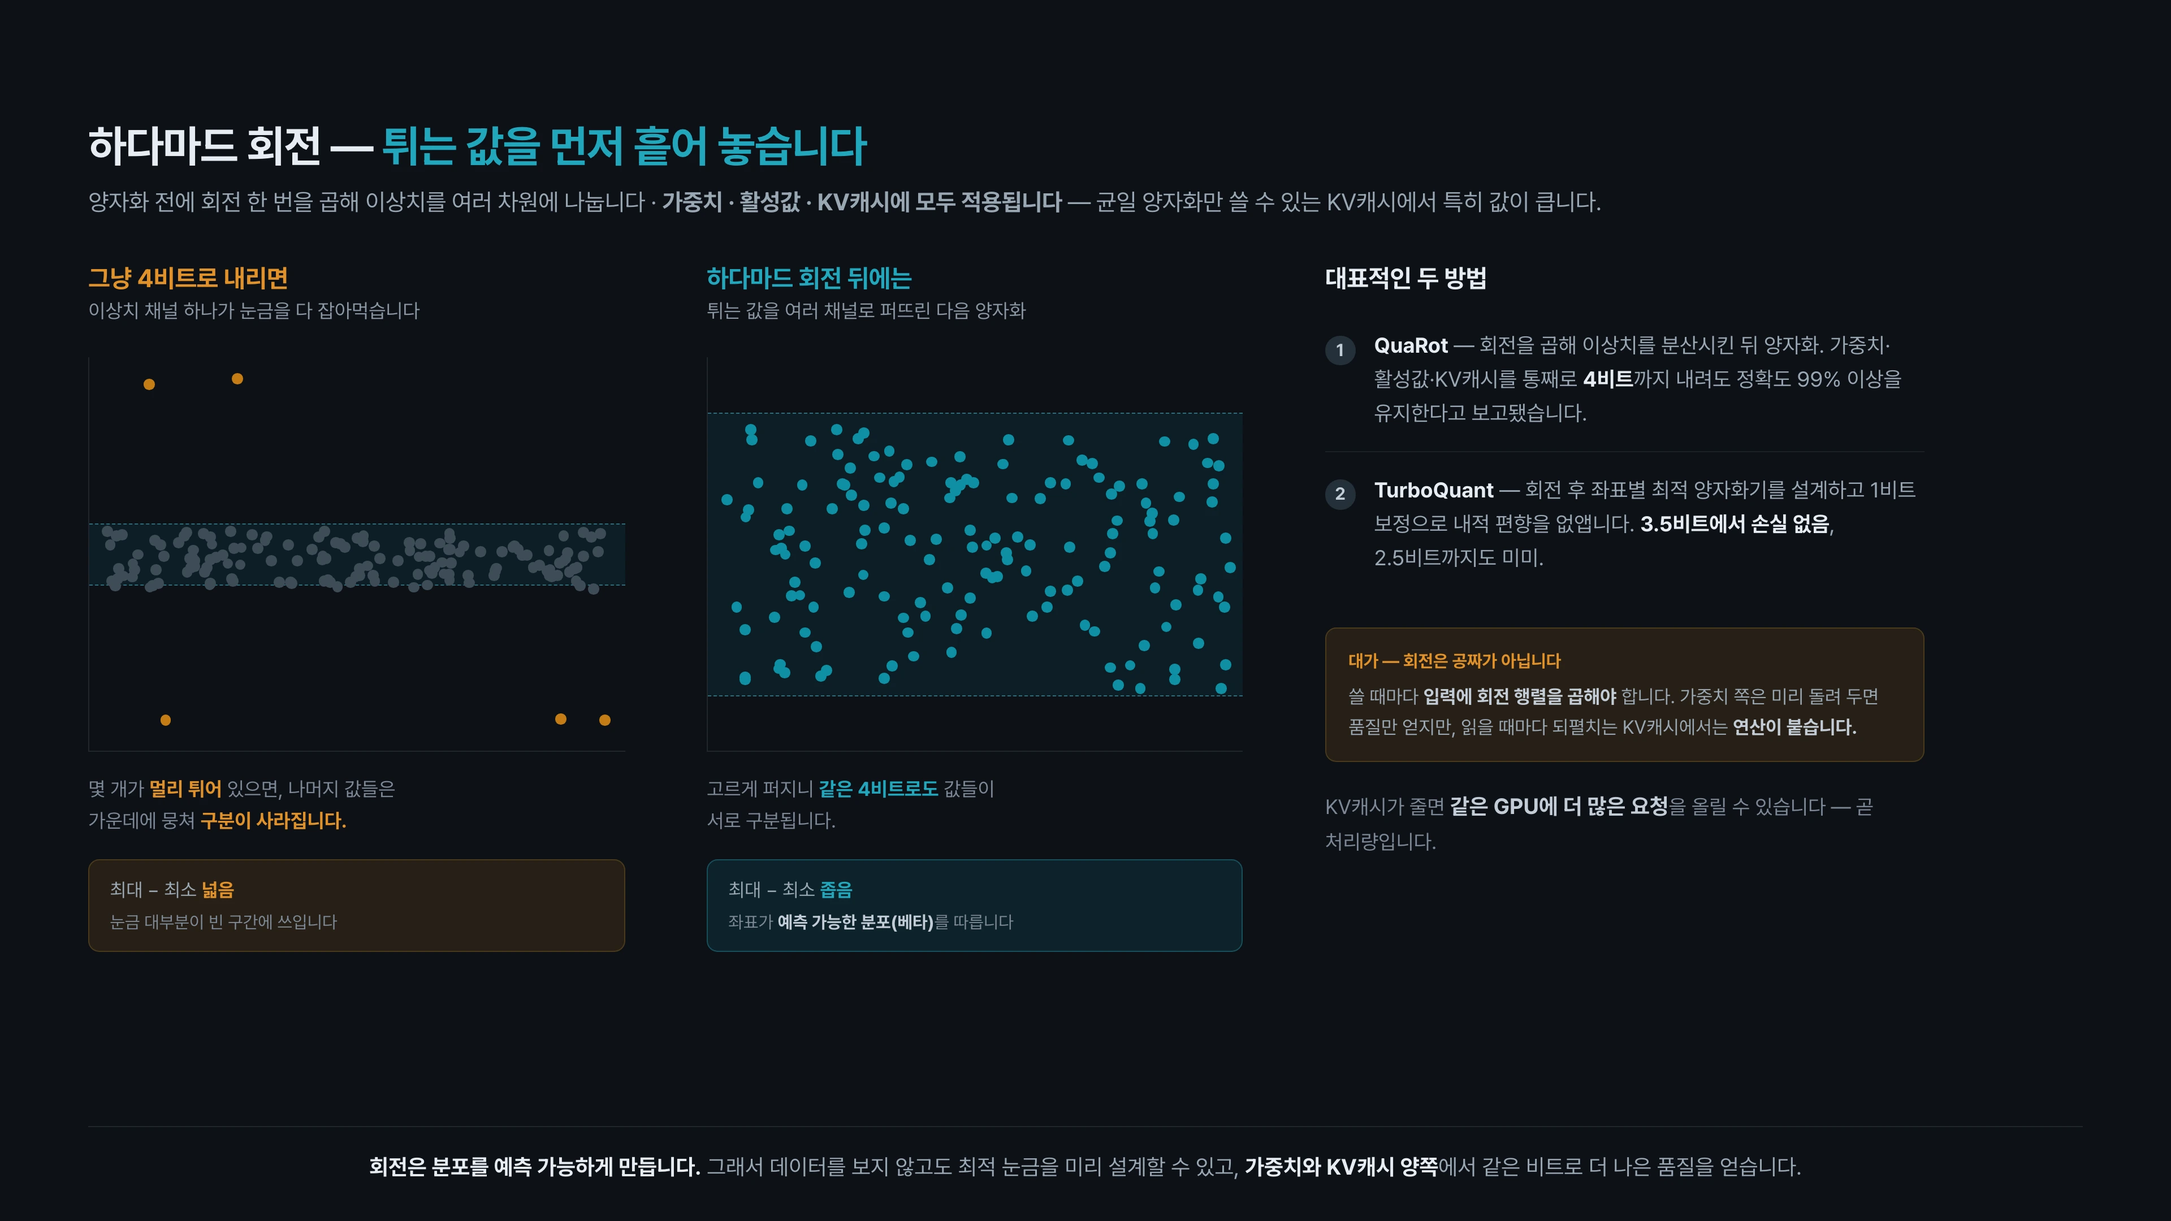
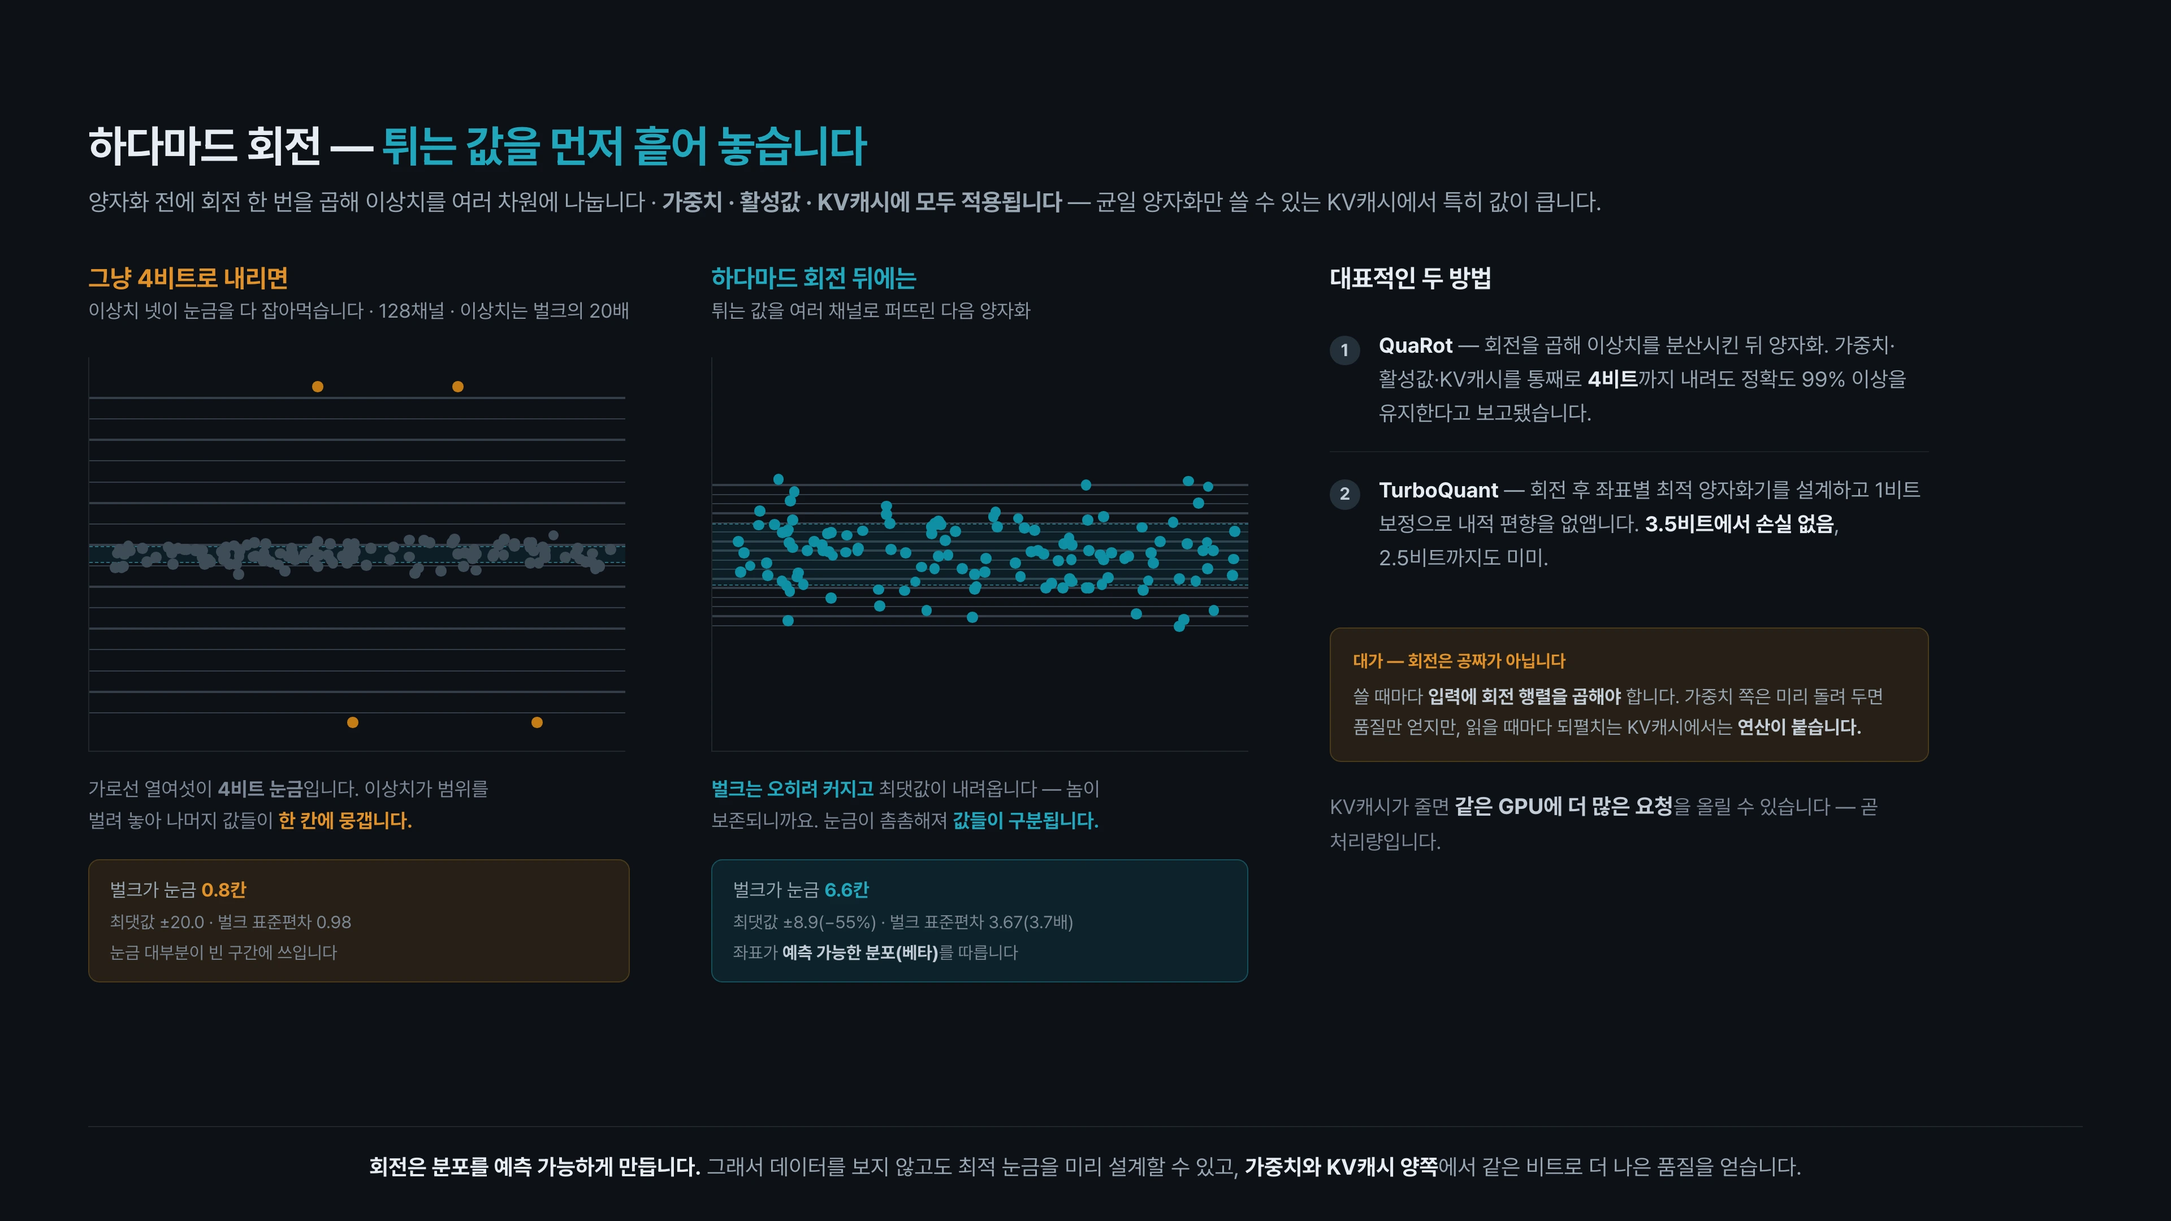
82번 하다마드 회전 — 손으로 그린 퍼짐을 실제 회전 계산으로 교체
호진님 지적: "회전 뒤 이상치는 줄어드나 기존 값들의 크기가 커지는 것처럼
묘사되고 있는데 의도와 맞나?"

**방향은 맞았습니다.** 직교 변환이라 놈이 보존되므로 봉우리에서 뺀 에너지는
나머지 좌표로 갈 수밖에 없고 벌크는 반드시 커집니다([^quarot-hadamard]).
문제는 두 패널의 퍼짐이 손으로 정한 상수(spread 0.16 / 0.72)였다는 것입니다 —
폭 축소가 29%로만 나오는데 벌크는 4.5배로 부풀어, 화면에서는 "폭이 좁아졌다"가
아니라 "전부 커졌다"로 읽혔습니다. CLAUDE.md "분포 곡선은 손으로 그리지 말고
계산해서 찍습니다"에 걸리는 사례(세션 38의 rotation_geometry와 같은 종류).

이제 진짜로 회전시킵니다
  - 128채널 벡터(넷은 ±20 이상치, 나머지 N(0,1))에 무작위 부호 뒤집기 →
    고속 월시–하다마드 변환 → ÷√128. 놈 보존은 코드가 보장합니다(41.466 동일).
  - 실측: 최댓값 ±20.0 → ±8.9(−55%) · 벌크 표준편차 0.98 → 3.67(3.7배).
    둘 다 맞습니다 — 예전 그림은 앞쪽만 축소하고 뒤쪽만 부풀려 뒤집혀 보였습니다.
  - 화면의 숫자도 전부 그 배열에서 계산해 넣습니다. 손으로 적은 값이 없습니다.

그리고 결론을 그렸습니다 — 4비트 눈금 16칸을 가로선으로
  - 범위는 각 패널의 최댓값이 정합니다. 회전 전은 칸이 성겨 벌크가 0.8칸에
    뭉개지고, 회전 후는 촘촘해져 6.6칸에 걸칩니다.
  - 카드 문구를 "최대−최소 넓음/좁음" → "벌크가 눈금 0.8칸/6.6칸"으로.
  - 오른쪽 캡션이 대놓고 말합니다: "벌크는 오히려 커지고 최댓값이 내려옵니다
    — 놈이 보존되니까요." 발표자 노트에도 같은 대목을 넣었습니다.
  - 시나리오(128채널 · 이상치는 벌크의 20배)를 패널 설명에 명시했습니다.

Claude-Session: https://claude.ai/code/session_01R3iwnDddbcGMSqfBhUgfua

diff --git a/figures/hadamard.html b/figures/hadamard.html
@@ -8,8 +8,13 @@
   .plot { position:relative; width:340px; height:250px;
           border-left:1px solid var(--c-21262d); border-bottom:1px solid var(--c-21262d); }
   .dot { position:absolute; width:7px; height:7px; border-radius:50%; }
+  /* 띠 = 벌크의 ±1σ. 두 패널에서 **띠는 커지고 점의 전체 범위는 좁아집니다** —
+     그 두 방향이 동시에 일어나는 것이 이 그림의 요점입니다(놈 보존). */
   .band { position:absolute; left:0; right:0; background:var(--a-35);
           border-top:1px dashed var(--c-2f6b78); border-bottom:1px dashed var(--c-2f6b78); }
+  /* 4비트 눈금 16칸. 범위는 그 패널의 최댓값이 정합니다 — 이상치가 범위를 벌리면
+     칸 간격이 넓어지고, 그래서 벌크가 한 칸에 뭉갭니다. 이게 이 그림의 결론입니다. */
+  .gline { position:absolute; left:0; right:0; height:1px; background:var(--c-333d47); }
   .ylab { position:absolute; left:-46px; font-size:11px; color:var(--c-5d6773); }
   .plotcap { font-size:12.5px; color:var(--c-7d8896); margin-top:14px; line-height:1.6; }
   .plotcap b { font-weight:700; }
@@ -50,18 +55,20 @@
   <div class="panels" style="margin-top:30px; gap:52px">
     <div class="panel">
       <div class="ptitle" style="color:var(--c-e0912a)">그냥 4비트로 내리면</div>
-      <div class="pdesc">이상치 채널 하나가 눈금을 다 잡아먹습니다</div>
+      <div class="pdesc">이상치 넷이 눈금을 다 잡아먹습니다 &middot; 128채널 &middot; 이상치는 벌크의 20배</div>
       <div class="plot" id="before" style="margin-top:22px"></div>
-      <div class="plotcap">몇 개가 <b class="am">멀리 튀어</b> 있으면, 나머지 값들은<br>가운데에 뭉쳐 <b class="am">구분이 사라집니다.</b></div>
-      <div class="spread am">최대 &minus; 최소 <b>넓음</b><br><span>눈금 대부분이 빈 구간에 쓰입니다</span></div>
+      <div class="plotcap">가로선 열여섯이 <b>4비트 눈금</b>입니다. 이상치가 범위를<br>벌려 놓아 나머지 값들이 <b class="am">한 칸에 뭉갭니다.</b></div>
+      <div class="spread am">벌크가 눈금 <b id="cells-b">&nbsp;</b><br><span id="stat-b">&nbsp;</span>
+        <span>눈금 대부분이 빈 구간에 쓰입니다</span></div>
     </div>
 
     <div class="panel">
       <div class="ptitle" style="color:var(--c-22a7bd)">하다마드 회전 뒤에는</div>
       <div class="pdesc">튀는 값을 여러 채널로 퍼뜨린 다음 양자화</div>
       <div class="plot" id="after" style="margin-top:22px"></div>
-      <div class="plotcap">고르게 퍼지니 <b class="cy">같은 4비트로도</b> 값들이<br>서로 구분됩니다.</div>
-      <div class="spread cy">최대 &minus; 최소 <b>좁음</b><br><span>좌표가 <b style="color:var(--c-c3ccd6)">예측 가능한 분포(베타)</b>를 따릅니다</span></div>
+      <div class="plotcap"><b class="cy">벌크는 오히려 커지고</b> 최댓값이 내려옵니다 &mdash; 놈이<br>보존되니까요. 눈금이 촘촘해져 <b class="cy">값들이 구분됩니다.</b></div>
+      <div class="spread cy">벌크가 눈금 <b id="cells-a">&nbsp;</b><br><span id="stat-a">&nbsp;</span>
+        <span>좌표가 <b style="color:var(--c-c3ccd6)">예측 가능한 분포(베타)</b>를 따릅니다</span></div>
     </div>
 
     <div class="panel" style="width:380px">
@@ -87,35 +94,112 @@
   </div>
 
 <script>
-let seed = 5;
-function rnd(){ seed = (seed*1103515245+12345)%2147483648; return seed/2147483648; }
+/* ── 손으로 그리지 않고 진짜로 회전시킵니다 (2026-08-05 재작성) ──────────────
+   예전에는 두 패널의 퍼짐을 손으로 정한 상수(spread 0.16 / 0.72)로 그렸습니다.
+   그 결과 최대−최소는 234px → 166px(29% 감소)로만 좁아지는데 벌크는 4.5배로
+   부풀어, 화면에서 이기는 인상이 "폭이 좁아졌다"가 아니라 **"전부 커졌다"**
+   였습니다(호진님 지적, 2026-08-05).
 
-function draw(id, spread, outliers) {
+   **방향 자체는 맞았습니다.** 하다마드는 직교 변환이라 놈이 보존되므로, 봉우리에서
+   뺀 에너지는 나머지 좌표로 갈 수밖에 없고 **벌크는 반드시 커집니다.** 문제는
+   폭 축소가 실제(약 55%)의 절반 이하로 그려져 있었다는 것입니다.
+
+   지금은 계산합니다.
+     1. 회전 전 x: 128채널 중 넷이 이상치(±20), 나머지는 N(0,1)
+     2. 무작위 하다마드 = 부호 무작위 뒤집기 → FWHT → ÷√128 (QuaRot이 쓰는 형태)
+     3. 그 결과 y를 그대로 찍습니다 — 놈 보존은 코드가 보장합니다(실측 41.466 동일)
+   화면의 숫자(최댓값·벌크 표준편차·눈금 칸 수)도 전부 이 배열에서 계산해 넣습니다.
+   **손으로 적은 값이 없습니다.** CLAUDE.md "분포 곡선은 손으로 그리지 말고 계산해서
+   찍습니다" — 세션 38에 rotation_geometry를 같은 이유로 고쳤습니다.
+
+   실측(seed 7): 최댓값 20.0 → 8.92(−55.4%) · 벌크 σ 0.98 → 3.67(3.7배) ·
+   4비트 16칸에서 벌크가 차지하는 칸 0.79 → 6.57. **이 그림의 결론은 폭이 아니라
+   "같은 16칸을 알차게 쓰게 됐다"입니다.** */
+const D = 128, K = 4, R = 20;          /* 차원 · 이상치 채널 수 · 이상치 크기(벌크 σ의 20배) */
+const OUT = [17, 53, 88, 119];         /* 이상치가 앉는 채널 — 고정 */
+const VIEW = 22;                       /* 세로축 반폭. 두 패널이 **같은 자로** 그려집니다 */
+const H = 250, W = 340, LEVELS = 16;   /* 4비트 = 16칸 */
+
+let sd = 7 >>> 0;
+function rnd() { sd = (Math.imul(sd, 1664525) + 1013904223) >>> 0; return sd / 4294967296; }
+let spare = null;
+function gauss() {
+  if (spare !== null) { const v = spare; spare = null; return v; }
+  const u = Math.max(rnd(), 1e-12), v = rnd(), m = Math.sqrt(-2 * Math.log(u));
+  spare = m * Math.sin(2 * Math.PI * v);
+  return m * Math.cos(2 * Math.PI * v);
+}
+
+/* 회전 전 — 벌크는 표준정규, 넷만 ±R로 튑니다 */
+const x = new Array(D);
+for (let i = 0; i < D; i++) x[i] = gauss();
+OUT.forEach((j, t) => { x[j] = (t % 2 ? -1 : 1) * R; });
+
+/* 무작위 하다마드: 부호 뒤집기 → 고속 월시–하다마드 변환 → ÷√D.
+   직교 변환이므로 ‖y‖ = ‖x‖ 입니다 (아래에서 실제로 확인합니다). */
+const y = x.slice();
+for (let i = 0; i < D; i++) if (rnd() < 0.5) y[i] = -y[i];
+for (let len = 1; len < D; len <<= 1)
+  for (let i = 0; i < D; i += len << 1)
+    for (let j = i; j < i + len; j++) {
+      const a = y[j], b = y[j + len];
+      y[j] = a + b; y[j + len] = a - b;
+    }
+const rootD = Math.sqrt(D);
+for (let i = 0; i < D; i++) y[i] /= rootD;
+
+const rms = a => Math.sqrt(a.reduce((s, v) => s + v * v, 0) / a.length);
+const amax = a => Math.max(...a.map(Math.abs));
+const bulkX = x.filter((_, i) => OUT.indexOf(i) < 0);   /* 회전 전 벌크 = 이상치를 뺀 것 */
+const maxB = amax(x), maxA = amax(y);
+const sdB = rms(bulkX), sdA = rms(y);                    /* 회전 뒤에는 이상치가 없습니다 */
+/* 눈금 범위는 그 패널의 최댓값이 정합니다 → 칸 간격 = 2·max / 16.
+   벌크가 차지하는 칸 = 벌크 폭(2σ) ÷ 칸 간격. */
+const cells = (sd_, max_) => 2 * sd_ / (2 * max_ / LEVELS);
+
+function draw(id, vals, max_, sd_, outSet, dotVar) {
   const host = document.getElementById(id);
-  const H = 250, W = 340;
-  // 양자화 눈금이 실제로 쓰이는 구간
-  const bandH = spread * H;
+  const px = (H - 16) / (2 * VIEW);        /* 값 1당 픽셀 — 두 패널 공통 */
+  const yOf = v => H / 2 - v * px;
+
+  /* 4비트 눈금 — 칸의 가운데를 선으로 긋습니다 */
+  const step = 2 * max_ / LEVELS;
+  for (let i = 0; i < LEVELS; i++) {
+    const g = document.createElement('div');
+    g.className = 'gline';
+    g.style.top = yOf(-max_ + step * (i + 0.5)) + 'px';
+    host.appendChild(g);
+  }
+
+  /* 벌크 ±1σ 띠 */
   const band = document.createElement('div');
   band.className = 'band';
-  band.style.height = bandH + 'px';
-  band.style.top = (H/2 - bandH/2) + 'px';
+  band.style.top = yOf(sd_) + 'px';
+  band.style.height = (2 * sd_ * px) + 'px';
   host.appendChild(band);
 
-  for (let i = 0; i < 150; i++) {
+  vals.forEach((v, i) => {
     const d = document.createElement('div');
-    const isOut = outliers && i % 30 === 0;
-    let y;
-    if (isOut) y = rnd() < 0.5 ? 8 + rnd()*22 : H - 30 + rnd()*22;
-    else y = H/2 + (rnd()-0.5) * bandH * 0.92;
+    const isOut = outSet && outSet.indexOf(i) >= 0;
     d.className = 'dot';
     d.style.left = (8 + rnd() * (W - 20)) + 'px';
-    d.style.top = y + 'px';
-    d.style.background = isOut ? 'var(--c-c47d15)' : (id === 'after' ? 'var(--c-0e8fa3)' : 'var(--c-3f4c58)');
+    d.style.top = (yOf(v) - 3.5) + 'px';
+    d.style.background = isOut ? 'var(--c-c47d15)' : dotVar;
     host.appendChild(d);
-  }
+  });
 }
-draw('before', 0.16, true);
-draw('after', 0.72, false);
+draw('before', x, maxB, sdB, OUT, 'var(--c-3f4c58)');
+draw('after',  y, maxA, sdA, null, 'var(--c-0e8fa3)');
+
+/* 카드의 숫자도 같은 배열에서 뽑습니다 */
+const f = (n, k) => n.toFixed(k);
+document.getElementById('cells-b').textContent = f(cells(sdB, maxB), 1) + '칸';
+document.getElementById('cells-a').textContent = f(cells(sdA, maxA), 1) + '칸';
+document.getElementById('stat-b').textContent =
+  '최댓값 ±' + f(maxB, 1) + ' · 벌크 표준편차 ' + f(sdB, 2);
+document.getElementById('stat-a').textContent =
+  '최댓값 ±' + f(maxA, 1) + '(−' + f((1 - maxA / maxB) * 100, 0) + '%) · 벌크 표준편차 '
+  + f(sdA, 2) + '(' + f(sdA / sdB, 1) + '배)';
 </script>
 </body>
 </html>

diff --git a/slides/index.html b/slides/index.html
@@ -1552,11 +1552,19 @@
 </section>
 
 <section class="fig" data-chapter="7.2 KV캐시 양자화">
-  <img src="../assets/kv_quant_rotation.webp?v=20260805a" alt="하다마드 회전 — 회전 전에는 이상치 몇 개가 눈금을 다 잡아먹어 나머지가 가운데 뭉치고, 회전 뒤에는 값이 고르게 퍼져 같은 4비트로도 구분되며 최대-최소 폭이 좁아지고 좌표가 예측 가능한 베타 분포를 따른다. 가중치·활성값·KV캐시 모두에 적용되고 대가는 입력에 회전 행렬을 곱하는 연산이다">
+  <img src="../assets/kv_quant_rotation.webp?v=20260805a" alt="하다마드 회전 — 128채널 중 넷이 벌크의 20배로 튀는 경우를 실제로 회전시켜 그린 두 산점도. 두 패널은 같은 세로 자를 쓰고 가로선 열여섯이 4비트 눈금이며, 그 범위는 각 패널의 최댓값이 정합니다. 왼쪽 회전 전은 이상치가 범위를 ±20으로 벌려 놓아 눈금이 성기고 벌크(±1σ 띠)가 0.8칸에 뭉갭니다. 오른쪽 회전 뒤는 직교 변환이라 놈이 보존되므로 벌크 표준편차가 0.98에서 3.67로 3.7배 커지는 대신 최댓값이 ±20에서 ±8.9로 55% 내려가고, 그만큼 눈금이 촘촘해져 벌크가 6.6칸에 걸쳐 서로 구분됩니다. 오른쪽 패널에는 QuaRot과 TurboQuant, 그리고 쓸 때마다 입력에 회전 행렬을 곱해야 한다는 대가가 있습니다">
   <aside class="notes">
-    <b>왼쪽이 문제, 오른쪽이 해법입니다.</b> 4비트는 눈금이 16칸뿐인데 이상치 하나가 멀리 튀면
-    그 사이가 다 빈 칸으로 낭비되고, 나머지 값들은 가운데 뭉쳐 <b>서로 구분되지 않습니다.</b>
-    <b>하다마드 회전</b>은 그 뾰족한 값을 여러 차원에 나눠 <b>최대−최소 폭을 좁힙니다.</b>
+    <b>왼쪽이 문제, 오른쪽이 해법입니다.</b> 가로선 열여섯이 <b>4비트 눈금</b>이고,
+    그 범위는 <b>그 패널의 최댓값이 정합니다</b> — 이게 이 그림의 전부입니다.
+    왼쪽은 이상치가 범위를 ±20으로 벌려 놓아 칸이 성기고, 나머지 값들이
+    <b>한 칸 안에 다 뭉갭니다</b>(0.8칸).
+    <b>여기서 반드시 짚어 주세요</b> &mdash; 회전 뒤 오른쪽을 보면 <b>값들이 오히려 커집니다.</b>
+    잘못 그린 게 아니라 <b>그게 기제입니다.</b> 하다마드는 직교 변환이라 <b>놈이 보존</b>되므로,
+    봉우리에서 뺀 에너지는 사라지지 않고 <b>나머지 좌표로 갈 수밖에 없습니다.</b>
+    그래서 벌크 표준편차가 <span class="num">0.98 → 3.67</span>(3.7배)로 커지는 대신
+    최댓값이 <span class="num">±20 → ±8.9</span>로 <b>55% 내려갑니다.</b>
+    <b>얻는 것은 폭이 아니라 눈금 활용도입니다</b> &mdash; 범위가 좁아진 만큼 칸이 촘촘해져
+    벌크가 <span class="num">0.8칸 → 6.6칸</span>에 걸칩니다. 그게 "구분된다"의 내용입니다.
     그리고 회전 뒤 좌표는 <b>예측 가능한 분포(베타)</b>를 따르므로 <b>데이터를 보지 않고도</b>
     최적 눈금을 미리 설계할 수 있습니다 — 다음 두 장의 기법이 여기서 나옵니다.
     <b>가중치·활성값·KV캐시 모두에 적용됩니다.</b>

diff --git a/README.md b/README.md
@@ -827,7 +827,7 @@ B200 192GB는 공장에서 정해져 나오는 값이고 나중에 늘리거나 
 
 그렇다면 어떻게 KV 캐시를 4비트 이하로 깎으면서도 오차가 생기지 않는 것일까요? 바로 **회전 기법(Rotation)** 덕분입니다.
 
-![하다마드 회전 — 회전 전에는 이상치 몇 개가 눈금을 다 잡아먹어 나머지가 가운데 뭉치고, 회전 뒤에는 값이 고르게 퍼져 같은 4비트로도 구분되며 최대-최소 폭이 좁아진다](./assets/kv_quant_rotation.webp)
+![하다마드 회전 — 128채널 중 넷이 벌크의 20배로 튀는 경우를 실제로 회전시켜 그린 두 산점도. 두 패널은 같은 세로 자를 쓰고 가로선 열여섯이 4비트 눈금이며, 그 범위는 각 패널의 최댓값이 정합니다. 왼쪽 회전 전은 이상치가 범위를 ±20으로 벌려 놓아 눈금이 성기고 벌크(±1σ 띠)가 0.8칸에 뭉갭니다. 오른쪽 회전 뒤는 직교 변환이라 놈이 보존되므로 벌크 표준편차가 0.98에서 3.67로 3.7배 커지는 대신 최댓값이 ±20에서 ±8.9로 55% 내려가고, 그만큼 눈금이 촘촘해져 벌크가 6.6칸에 걸쳐 서로 구분됩니다. 오른쪽 패널에는 QuaRot과 TurboQuant, 그리고 쓸 때마다 입력에 회전 행렬을 곱해야 한다는 대가가 있습니다](./assets/kv_quant_rotation.webp)
 
 ![회전의 기하학적 원리 — 세 패널이 같은 가로축(−10\~+10)에 1D 사영 분포를 그린다. 밀도함수는 f(x) ∝ (1 − x²/R²)^((D−3)/2) 하나이고 D만 바뀐다. 2차원은 지수 −1/2이라 양 끝에서 발산하는 U자(아크사인)이고 피크는 10에서 7.07로, 3차원은 지수가 정확히 0이 되어 완전히 평탄한 균등 분포(아르키메데스 모자상자 정리)이고 피크는 5.77로, 128차원은 지수 62.5로 표준편차 0.884의 좁은 정규분포가 되어 ±2.65 안에 99.7%가 몰린다. 위쪽 막대는 원본에서 한 자리가 10을 다 갖던 것이 회전 뒤 128개 좌표로 나뉘어 최대 2.36·평균 0.88이 되는 것을 보여준다](./assets/rotation_geometry.webp)
 
